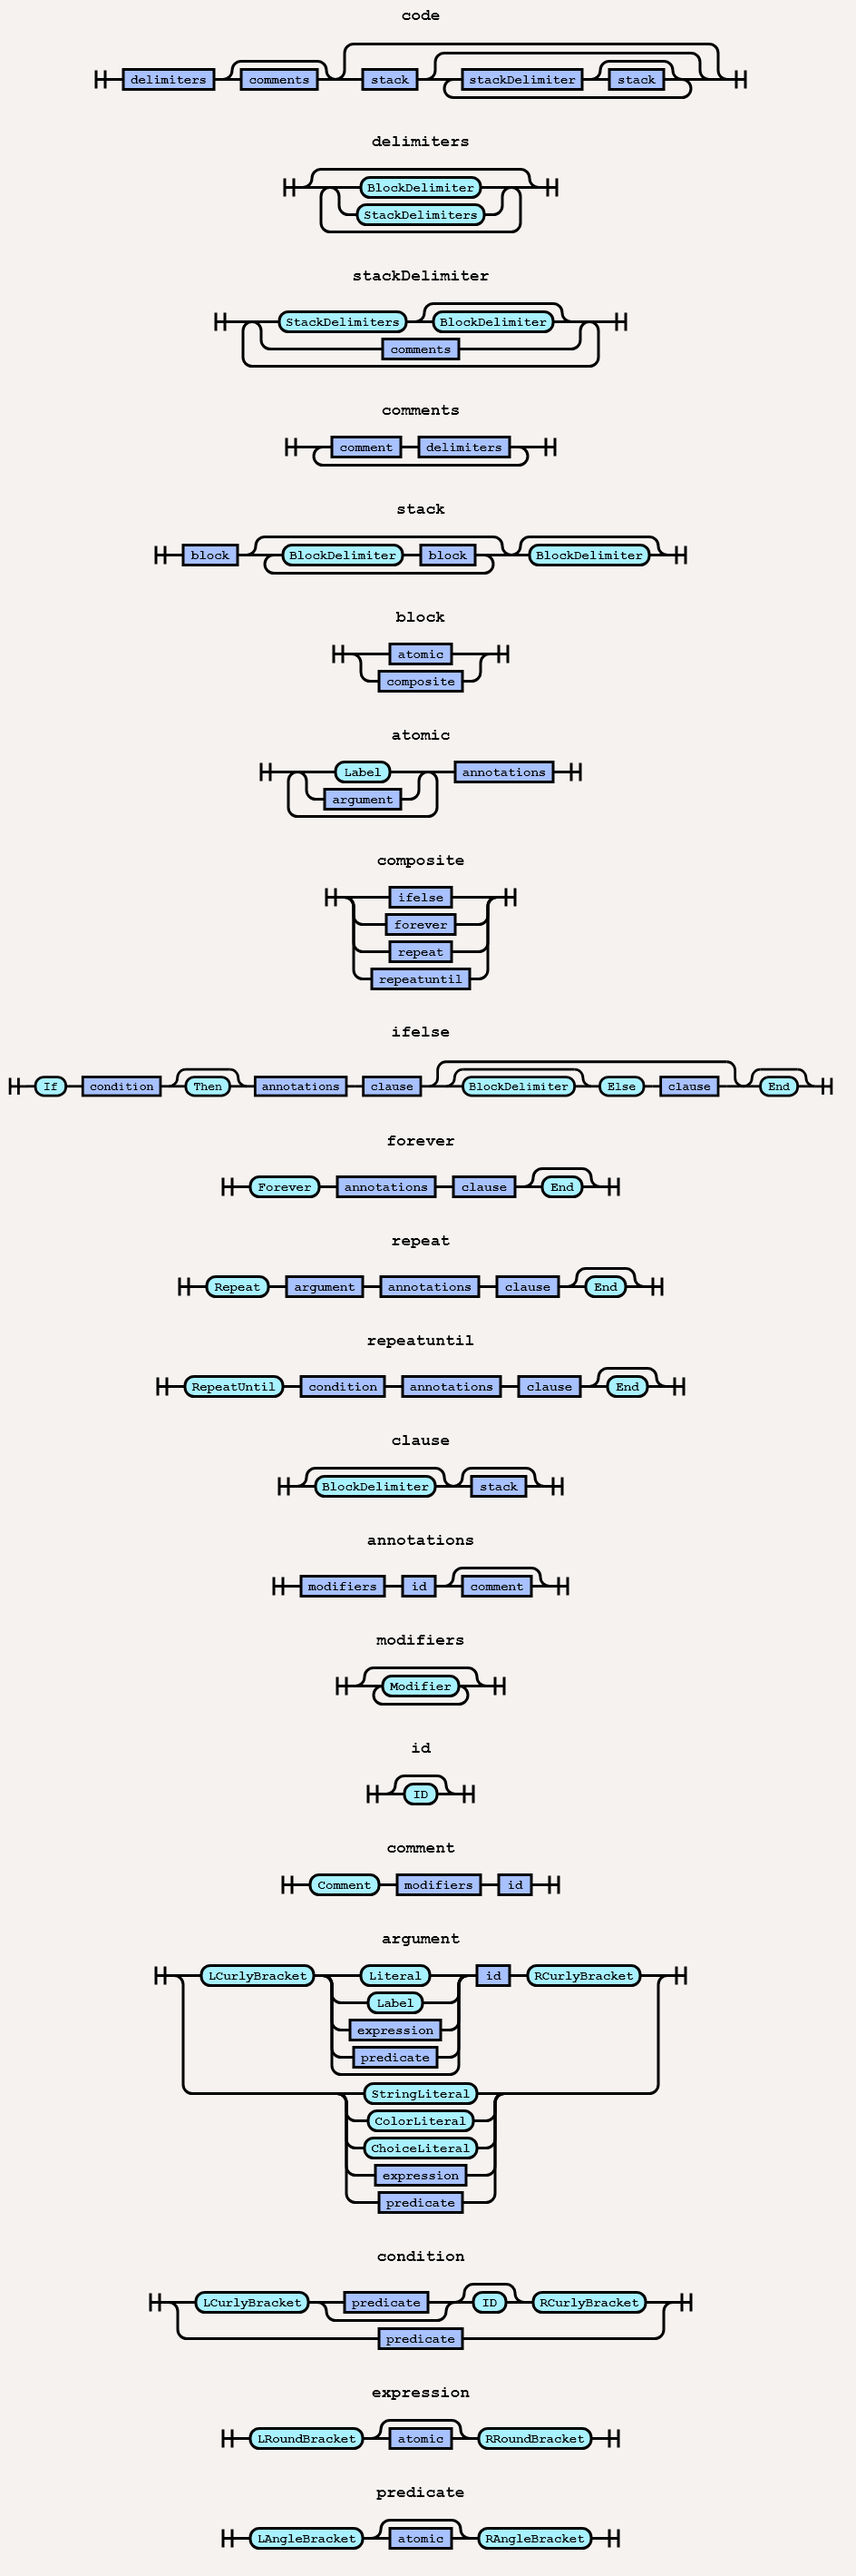
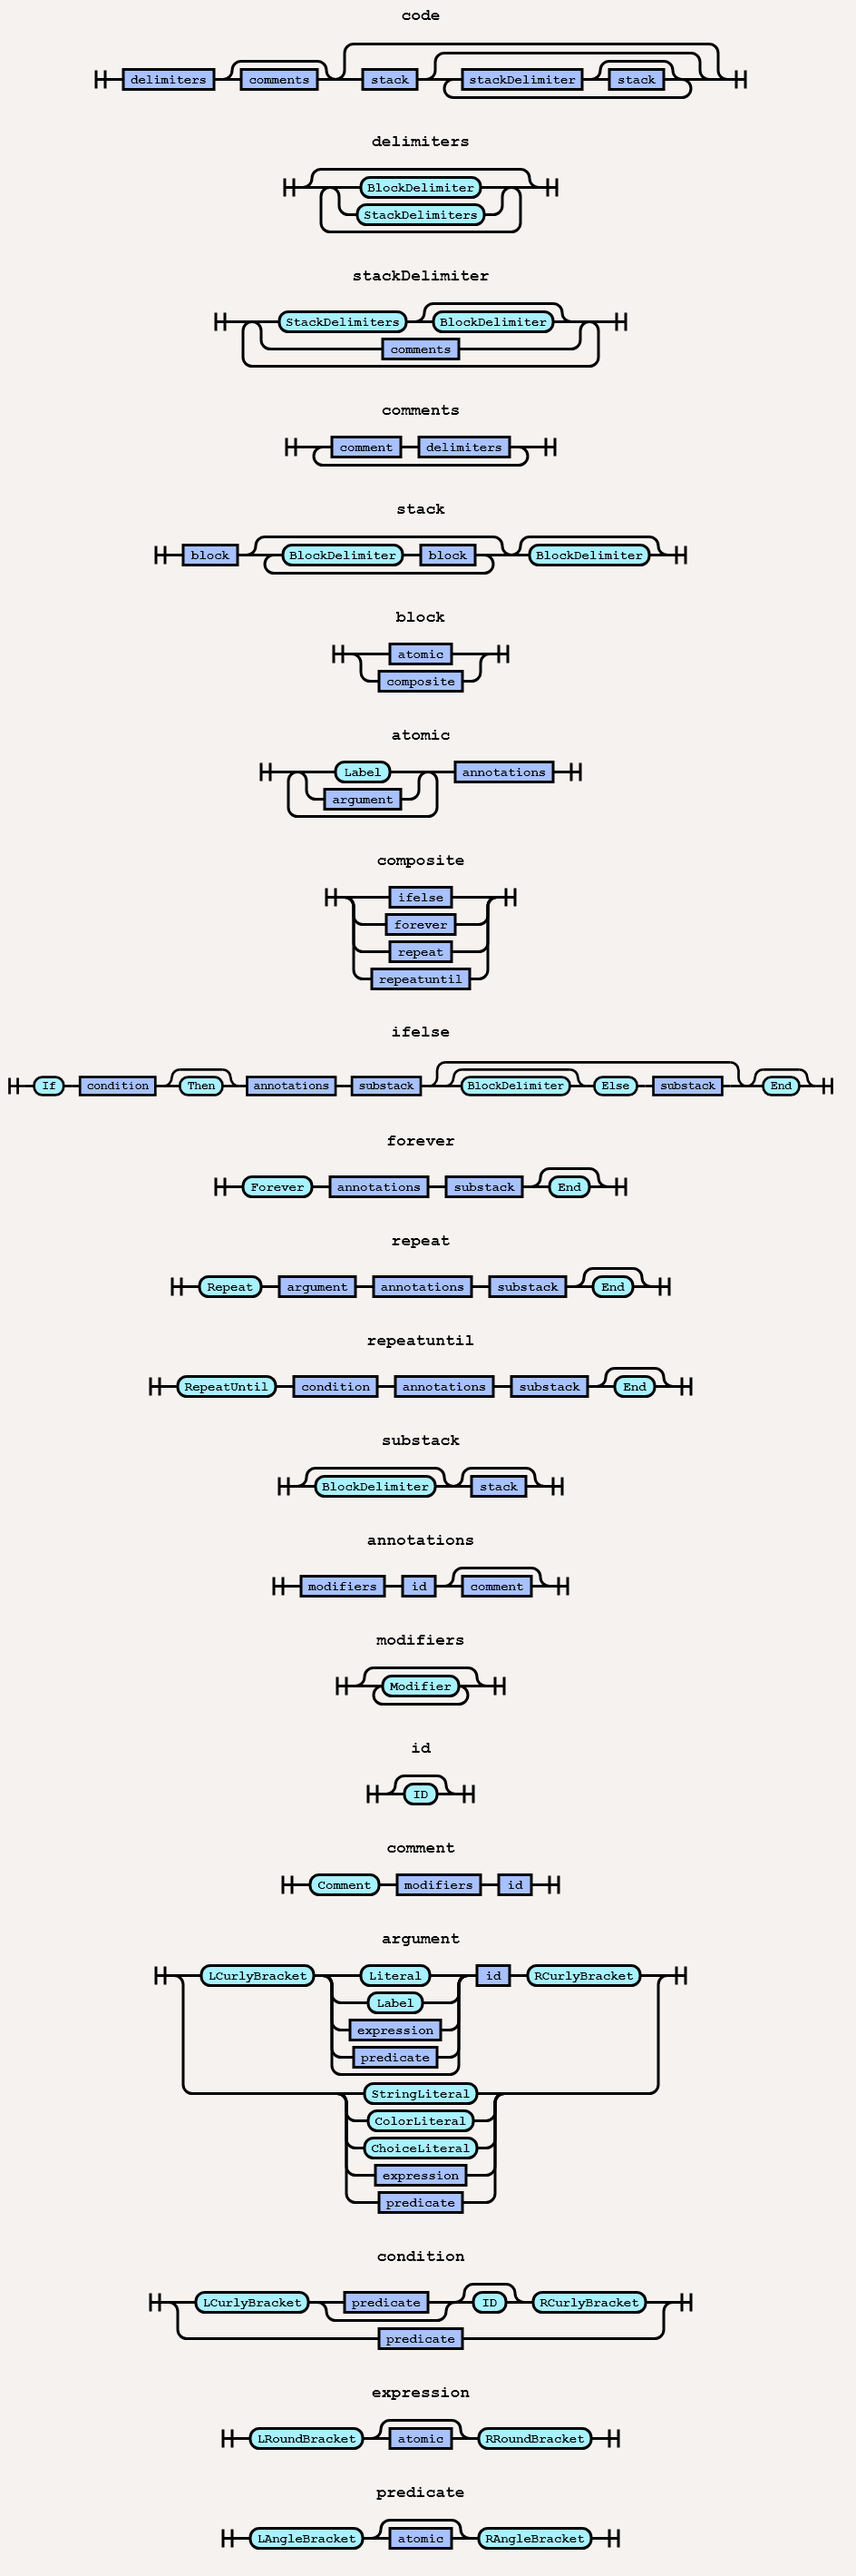
update diagrams

diff --git a/documentation_parser/generated_diagrams.html b/documentation_parser/generated_diagrams.html
@@ -374,7 +374,7 @@
   {
     "type": "Rule",
     "name": "ifelse",
-    "orgText": "() => {\r\n                    $.CONSUME(If);\r\n                    $.SUBRULE($.condition);\r\n                    $.OPTION(() => {\r\n                        $.CONSUME(Then);\r\n                    });\r\n                    $.SUBRULE($.annotations);\r\n                    $.SUBRULE($.clause, {\r\n                        LABEL: \"ifClause\"\r\n                    });\r\n                    $.OPTION3(() => {\r\n                        $.OPTION4(() => {\r\n                            $.CONSUME(BlockDelimiter, {\r\n                                LABEL: \"trailingIfClauseDelimiter\"\r\n                            });\r\n                        });\r\n                        $.CONSUME(Else);\r\n                        $.SUBRULE3($.clause, {\r\n                            LABEL: \"elseClause\"\r\n                        });\r\n                    });\r\n                    $.OPTION5(() => {\r\n                        $.CONSUME(End);\r\n                    })\r\n                }",
+    "orgText": "() => {\r\n                    $.CONSUME(If);\r\n                    $.SUBRULE($.condition);\r\n                    $.OPTION(() => {\r\n                        $.CONSUME(Then);\r\n                    });\r\n                    $.SUBRULE($.annotations);\r\n                    $.SUBRULE($.substack, {\r\n                        LABEL: \"ifSubstack\"\r\n                    });\r\n                    $.OPTION3(() => {\r\n                        $.OPTION4(() => {\r\n                            $.CONSUME(BlockDelimiter, {\r\n                                LABEL: \"trailingIfSubstackDelimiter\"\r\n                            });\r\n                        });\r\n                        $.CONSUME(Else);\r\n                        $.SUBRULE3($.substack, {\r\n                            LABEL: \"elseSubstack\"\r\n                        });\r\n                    });\r\n                    $.OPTION5(() => {\r\n                        $.CONSUME(End);\r\n                    })\r\n                }",
     "definition": [
       {
         "type": "Terminal",
@@ -408,7 +408,7 @@
       },
       {
         "type": "NonTerminal",
-        "name": "clause",
+        "name": "substack",
         "idx": 0
       },
       {
@@ -437,7 +437,7 @@
           },
           {
             "type": "NonTerminal",
-            "name": "clause",
+            "name": "substack",
             "idx": 3
           }
         ]
@@ -460,7 +460,7 @@
   {
     "type": "Rule",
     "name": "forever",
-    "orgText": "() => {\r\n                    $.CONSUME(Forever);\r\n                    $.SUBRULE($.annotations);\r\n                    $.SUBRULE($.clause);\r\n                    $.OPTION(() => {\r\n                        $.CONSUME(End);\r\n                    })\r\n                }",
+    "orgText": "() => {\r\n                    $.CONSUME(Forever);\r\n                    $.SUBRULE($.annotations);\r\n                    $.SUBRULE($.substack);\r\n                    $.OPTION(() => {\r\n                        $.CONSUME(End);\r\n                    })\r\n                }",
     "definition": [
       {
         "type": "Terminal",
@@ -476,7 +476,7 @@
       },
       {
         "type": "NonTerminal",
-        "name": "clause",
+        "name": "substack",
         "idx": 0
       },
       {
@@ -497,7 +497,7 @@
   {
     "type": "Rule",
     "name": "repeat",
-    "orgText": "() => {\r\n                    $.CONSUME(Repeat);\r\n                    $.SUBRULE($.argument);\r\n                    $.SUBRULE($.annotations);\r\n                    $.SUBRULE($.clause);\r\n                    $.OPTION(() => {\r\n                        $.CONSUME(End);\r\n                    })\r\n                }",
+    "orgText": "() => {\r\n                    $.CONSUME(Repeat);\r\n                    $.SUBRULE($.argument);\r\n                    $.SUBRULE($.annotations);\r\n                    $.SUBRULE($.substack);\r\n                    $.OPTION(() => {\r\n                        $.CONSUME(End);\r\n                    })\r\n                }",
     "definition": [
       {
         "type": "Terminal",
@@ -518,7 +518,7 @@
       },
       {
         "type": "NonTerminal",
-        "name": "clause",
+        "name": "substack",
         "idx": 0
       },
       {
@@ -539,7 +539,7 @@
   {
     "type": "Rule",
     "name": "repeatuntil",
-    "orgText": "() => {\r\n                    $.CONSUME(RepeatUntil);\r\n                    $.SUBRULE($.condition);\r\n                    $.SUBRULE($.annotations);\r\n                    $.SUBRULE($.clause);\r\n                    $.OPTION(() => {\r\n                        $.CONSUME(End);\r\n                    })\r\n                }",
+    "orgText": "() => {\r\n                    $.CONSUME(RepeatUntil);\r\n                    $.SUBRULE($.condition);\r\n                    $.SUBRULE($.annotations);\r\n                    $.SUBRULE($.substack);\r\n                    $.OPTION(() => {\r\n                        $.CONSUME(End);\r\n                    })\r\n                }",
     "definition": [
       {
         "type": "Terminal",
@@ -560,7 +560,7 @@
       },
       {
         "type": "NonTerminal",
-        "name": "clause",
+        "name": "substack",
         "idx": 0
       },
       {
@@ -580,8 +580,8 @@
   },
   {
     "type": "Rule",
-    "name": "clause",
-    "orgText": "() => {\r\n                    $.OPTION(() => {\r\n                        $.CONSUME(BlockDelimiter, {\r\n                            LABEL: \"leadingClauseDelimiter\"\r\n                        });\r\n                    });\r\n                    $.OPTION2(() => {\r\n                        $.SUBRULE($.stack);\r\n                    });\r\n                }",
+    "name": "substack",
+    "orgText": "() => {\r\n                    $.OPTION(() => {\r\n                        $.CONSUME(BlockDelimiter, {\r\n                            LABEL: \"leadingSubstackDelimiter\"\r\n                        });\r\n                    });\r\n                    $.OPTION2(() => {\r\n                        $.SUBRULE($.stack);\r\n                    });\r\n                }",
     "definition": [
       {
         "type": "Option",

diff --git a/documentation_parser/parser.js b/documentation_parser/parser.js
@@ -396,18 +396,18 @@ module.exports = {
                         $.CONSUME(Then);
                     });
                     $.SUBRULE($.annotations);
-                    $.SUBRULE($.clause, {
-                        LABEL: "ifClause"
+                    $.SUBRULE($.substack, {
+                        LABEL: "ifSubstack"
                     });
                     $.OPTION3(() => {
                         $.OPTION4(() => {
                             $.CONSUME(BlockDelimiter, {
-                                LABEL: "trailingIfClauseDelimiter"
+                                LABEL: "trailingIfSubstackDelimiter"
                             });
                         });
                         $.CONSUME(Else);
-                        $.SUBRULE3($.clause, {
-                            LABEL: "elseClause"
+                        $.SUBRULE3($.substack, {
+                            LABEL: "elseSubstack"
                         });
                     });
                     $.OPTION5(() => {
@@ -418,7 +418,7 @@ module.exports = {
                 $.RULE("forever", () => {
                     $.CONSUME(Forever);
                     $.SUBRULE($.annotations);
-                    $.SUBRULE($.clause);
+                    $.SUBRULE($.substack);
                     $.OPTION(() => {
                         $.CONSUME(End);
                     })
@@ -429,7 +429,7 @@ module.exports = {
                     $.CONSUME(Repeat);
                     $.SUBRULE($.argument);
                     $.SUBRULE($.annotations);
-                    $.SUBRULE($.clause);
+                    $.SUBRULE($.substack);
                     $.OPTION(() => {
                         $.CONSUME(End);
                     })
@@ -439,17 +439,17 @@ module.exports = {
                     $.CONSUME(RepeatUntil);
                     $.SUBRULE($.condition);
                     $.SUBRULE($.annotations);
-                    $.SUBRULE($.clause);
+                    $.SUBRULE($.substack);
                     $.OPTION(() => {
                         $.CONSUME(End);
                     })
                 });
 
 
-                $.RULE("clause", () => {
+                $.RULE("substack", () => {
                     $.OPTION(() => {
                         $.CONSUME(BlockDelimiter, {
-                            LABEL: "leadingClauseDelimiter"
+                            LABEL: "leadingSubstackDelimiter"
                         });
                     });
                     $.OPTION2(() => {
@@ -659,7 +659,7 @@ module.exports = {
 
                 }
 
-                clause(ctx) {
+                substack(ctx) {
 
                 }
 

diff --git a/documentation_parser/parser_playground.js b/documentation_parser/parser_playground.js
@@ -392,18 +392,18 @@
                 $.CONSUME(Then);
             });
             $.SUBRULE($.annotations);
-            $.SUBRULE($.clause, {
-                LABEL: "ifClause"
+            $.SUBRULE($.substack, {
+                LABEL: "ifSubstack"
             });
             $.OPTION3(() => {
                 $.OPTION4(() => {
                     $.CONSUME(BlockDelimiter, {
-                        LABEL: "trailingIfClauseDelimiter"
+                        LABEL: "trailingIfSubstackDelimiter"
                     });
                 });
                 $.CONSUME(Else);
-                $.SUBRULE3($.clause, {
-                    LABEL: "elseClause"
+                $.SUBRULE3($.substack, {
+                    LABEL: "elseSubstack"
                 });
             });
             $.OPTION5(() => {
@@ -414,7 +414,7 @@
         $.RULE("forever", () => {
             $.CONSUME(Forever);
             $.SUBRULE($.annotations);
-            $.SUBRULE($.clause);
+            $.SUBRULE($.substack);
             $.OPTION(() => {
                 $.CONSUME(End);
             })
@@ -425,7 +425,7 @@
             $.CONSUME(Repeat);
             $.SUBRULE($.argument);
             $.SUBRULE($.annotations);
-            $.SUBRULE($.clause);
+            $.SUBRULE($.substack);
             $.OPTION(() => {
                 $.CONSUME(End);
             })
@@ -435,17 +435,17 @@
             $.CONSUME(RepeatUntil);
             $.SUBRULE($.condition);
             $.SUBRULE($.annotations);
-            $.SUBRULE($.clause);
+            $.SUBRULE($.substack);
             $.OPTION(() => {
                 $.CONSUME(End);
             })
         });
 
 
-        $.RULE("clause", () => {
+        $.RULE("substack", () => {
             $.OPTION(() => {
                 $.CONSUME(BlockDelimiter, {
-                    LABEL: "leadingClauseDelimiter"
+                    LABEL: "leadingSubstackDelimiter"
                 });
             });
             $.OPTION2(() => {
@@ -655,7 +655,7 @@
 
         }
 
-        clause(ctx) {
+        substack(ctx) {
 
         }
 
